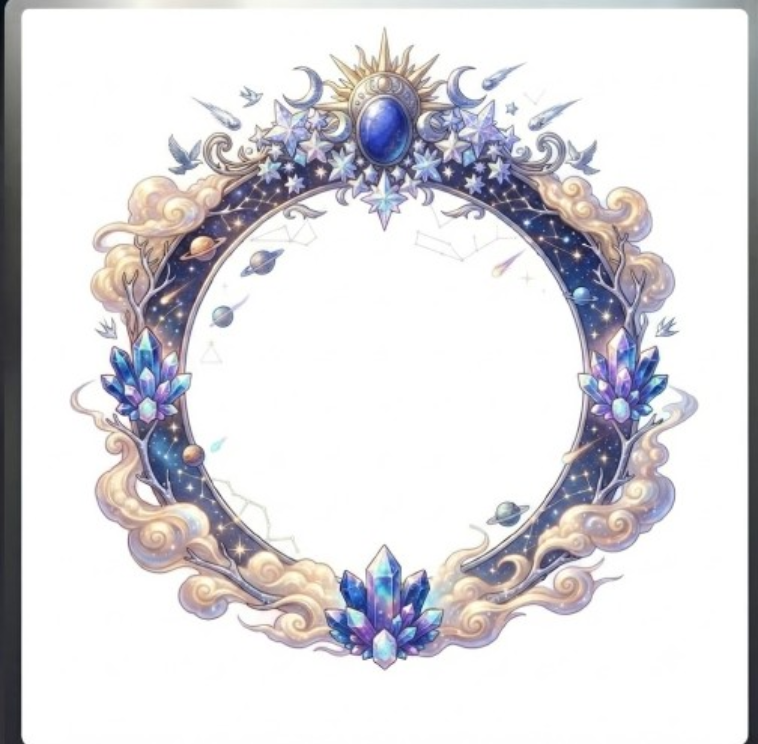
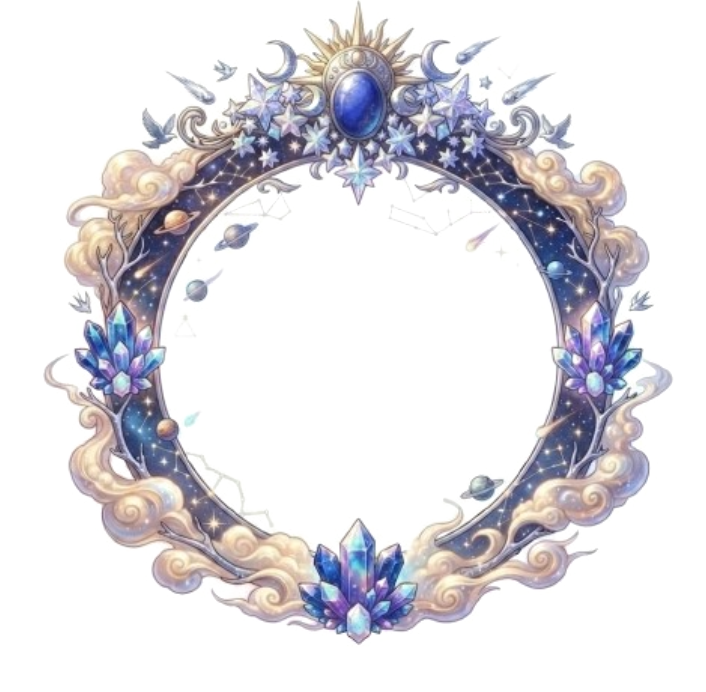
mining

diff --git a/frontend/src/pages/ProfilePage.jsx b/frontend/src/pages/ProfilePage.jsx
@@ -73,6 +73,7 @@ export const FRAME_STYLES = {
   cau_vong:  { background: 'conic-gradient(from 0deg,#f87171,#fbbf24,#34d399,#38bdf8,#818cf8,#f472b6,#f87171)', glow: '0 0 16px rgba(244,114,182,.45)' },
   huyen_thoai: { image: '/img/frames/vien-huyen-thoai.svg', innerRatio: 0.6, glow: '0 0 16px rgba(139,47,217,.4)', wings: true },
   thien_nhien: { image: '/img/frames/vien_thien_nhien.png', innerRatio: 0.5, glow: '0 0 16px rgba(74,124,44,.45)', vines: true },
+  mo_bi_an:  { image: '/img/frames/vien_kim_cuong.png', innerRatio: 0.56, glow: '0 0 16px rgba(99,102,241,.45)', mascot: true },
 }
 
 /* Hình 1 lông cánh (quạt xoè từ gốc (0,0), toả theo góc dần thấp xuống ngang) —
@@ -204,6 +205,34 @@ function NatureVines() {
   )
 }
 
+/* ── Thợ mỏ sóc cho khung "Mỏ Kim Cương Bí Ẩn" — 1 chú sóc thợ mỏ đứng ở góc dưới-phải
+   (nơi ảnh vòng để trống), diễn 1 chuỗi hành động 3 khung lặp lại: đào (kim_cuong_1) →
+   đập trúng kim cương (kim_cuong_2) → ngồi thở dốc bên viên kim cương (kim_cuong_3),
+   chuyển cảnh bằng crossfade rồi quay lại từ đầu. Neo theo % của hộp khung ngoài, giống
+   cách đặt dây leo — không phụ thuộc avatarSize. ── */
+const MINE_FRAMES = [
+  '/img/frames/kim_cuong_1.png',
+  '/img/frames/kim_cuong_2.png',
+  '/img/frames/kim_cuong_3.png',
+]
+
+function MineMascot() {
+  return (
+    <div className="avt-mine-mascot">
+      {MINE_FRAMES.map((src, i) => (
+        <img
+          key={src}
+          src={src}
+          alt=""
+          className="avt-mine-frame"
+          draggable={false}
+          style={{ animationDelay: `${i * 2}s` }}
+        />
+      ))}
+    </div>
+  )
+}
+
 /* ── Khung viền wrapper — bọc quanh MỘT avatar tròn có sẵn (bất kỳ kích thước/markup
    nào: AvatarDisplay, hoặc avatar tự vẽ riêng ở trang khác) để hiện khung đã trang bị.
    Dùng chung ở AccountMenu, trang quản lý lớp, quản trị… nơi nào có avatar + user đầy
@@ -294,6 +323,7 @@ export function AvatarDisplay({ user, size = 80, onClick, className = '', frameS
         <img src={frameStyle.image} alt="" className="avt-frame-image-ring" draggable={false} />
         {frameStyle.wings && <AngelWings avatarSize={size} ringSize={outerSize} />}
         {frameStyle.vines && <NatureVines />}
+        {frameStyle.mascot && <MineMascot />}
       </div>
     )
   }

diff --git a/frontend/src/index.css b/frontend/src/index.css
@@ -5575,6 +5575,48 @@ button { font-family: inherit; }
   .avt-vine-stem { animation: none; stroke-dashoffset: 0; }
   .avt-vine-leaf { animation: none; opacity: 1; transform: scale(1); }
 }
+
+/* ─── Thợ mỏ sóc (khung Mỏ Kim Cương Bí Ẩn) — góc dưới-phải, lặp chuỗi 3 khung hình
+   đào → trúng kim cương → ngồi thở, chuyển cảnh bằng crossfade + nhún nhẹ liên tục ─── */
+.avt-mine-mascot {
+  position: absolute;
+  left: 84%;
+  top: 86%;
+  width: 34%;
+  height: 34%;
+  transform: translate(-50%, -100%);
+  z-index: 3;
+  pointer-events: none;
+  user-select: none;
+  filter: drop-shadow(0 2px 5px rgba(15, 23, 42, .5)) drop-shadow(0 0 6px rgba(99, 102, 241, .45));
+  animation: avt-mine-bob 2.4s ease-in-out infinite;
+}
+.avt-mine-frame {
+  position: absolute;
+  inset: 0;
+  width: 100%;
+  height: 100%;
+  object-fit: contain;
+  object-position: bottom center;
+  opacity: 0;
+  animation: avt-mine-crossfade 6s ease-in-out infinite both;
+}
+@keyframes avt-mine-crossfade {
+  0%   { opacity: 0; }
+  3%   { opacity: 1; }
+  30%  { opacity: 1; }
+  33%  { opacity: 0; }
+  100% { opacity: 0; }
+}
+@keyframes avt-mine-bob {
+  0%, 100% { transform: translate(-50%, -100%); }
+  50%      { transform: translate(-50%, calc(-100% - 4%)); }
+}
+@media (prefers-reduced-motion: reduce) {
+  .avt-mine-mascot { animation: none; }
+  .avt-mine-frame { animation: none; opacity: 1; }
+  .avt-mine-frame:not(:first-child) { display: none; }
+}
 .avt-display-overlay {
   position: absolute; inset: 0;
   border-radius: 50%;

diff --git a/api.py b/api.py
@@ -1894,6 +1894,7 @@ FRAME_CATALOG = [
     {"id": "cau_vong",    "name": "Cầu Vồng",    "price": 1200, "rarity": "legendary"},
     {"id": "huyen_thoai", "name": "Huyền Thoại", "price": 1500, "rarity": "legendary"},
     {"id": "thien_nhien", "name": "Thiên Nhiên Huyền Thoại", "price": 1400, "rarity": "legendary"},
+    {"id": "mo_bi_an",    "name": "Mỏ Kim Cương Bí Ẩn",    "price": 1450, "rarity": "legendary"},
 ]
 _FRAME_BY_ID = {f["id"]: f for f in FRAME_CATALOG}
 
